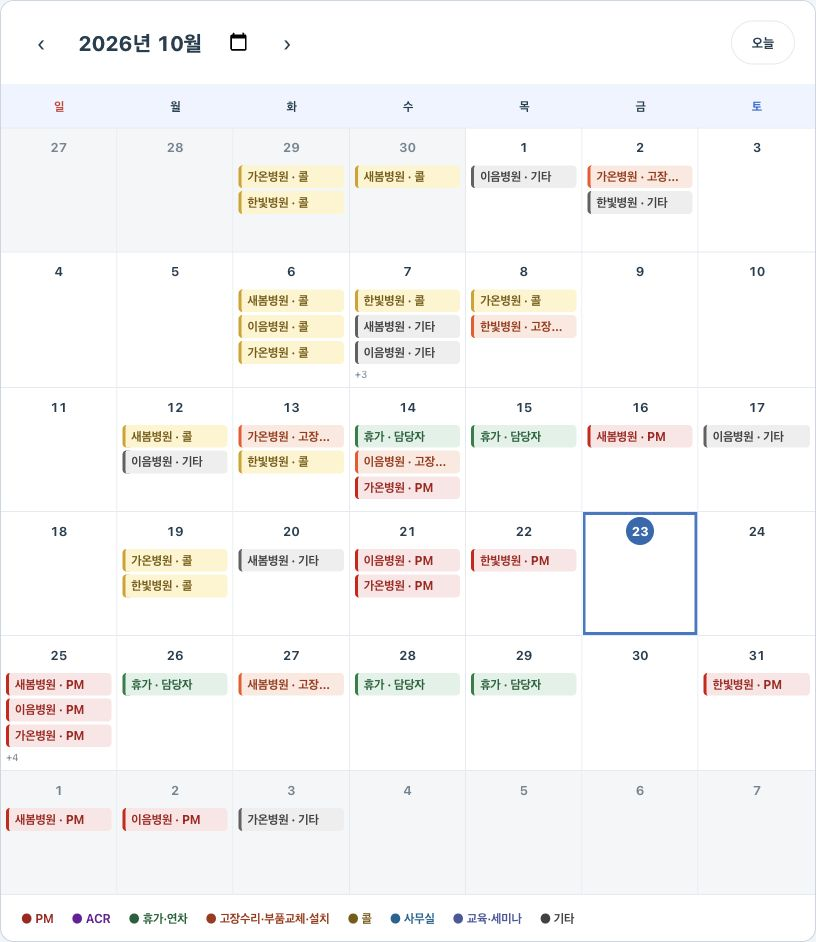
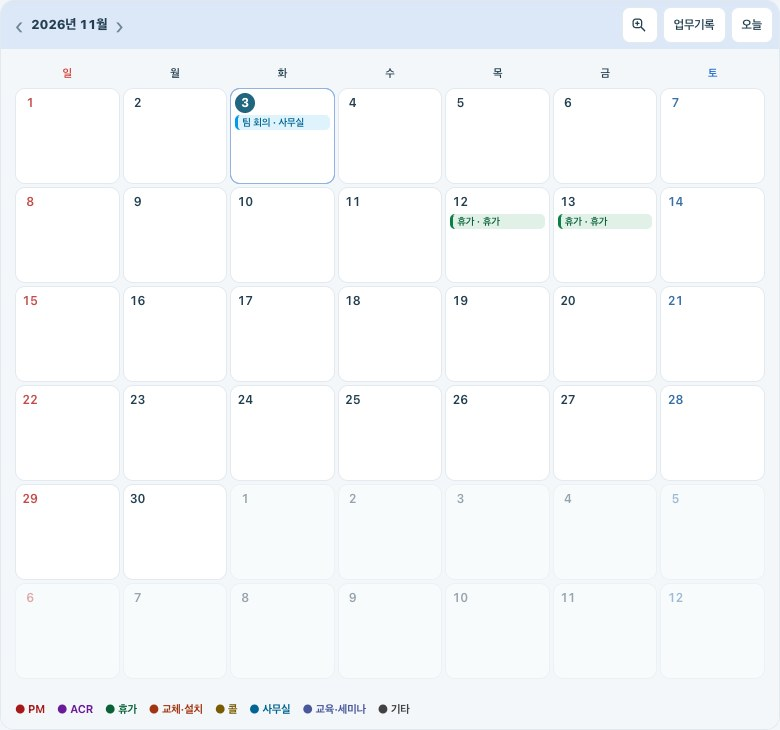
Refresh service overview and align meeting search with hospital directory

diff --git a/frontend/src/app/about/page.tsx b/frontend/src/app/about/page.tsx
@@ -26,18 +26,20 @@ const features = [
   [
     "04",
     "점검 관리",
-    "병원별 점검 주기와 지정일을 관리하고, 다가오는 점검 기한을 확인하세요.",
+    "다가오는 점검과 방문 전 확인사항을 함께 살피고, 점검 예정일을 달력에서 조정하세요.",
   ],
   [
     "05",
     "팀 일정",
-    "방문과 점검, 휴가 일정을 업무기록과 함께 달력에서 확인하세요.",
+    "간단한 일정은 메모로, 자세한 현장 내용은 업무기록으로 남기고 달력에서 함께 확인하세요.",
   ],
   [
     "06",
     "구글캘린더 연동",
-    "원하는 계정에 업무 일정을 반영해, 평소 사용하는 캘린더에서도 확인하세요.",
+    "업무기록·일정·점검 기한을 전용 캘린더에 반영하고, 설정에서 연동 상태를 확인하세요.",
   ],
+  ["07", "병원 정비이력", "측정값과 정비이력, 병원 정보를 탭으로 나누어 확인하고 이전 작업을 다음 방문에 활용하세요."],
+  ["08", "회의록", "지난주 진행 내용과 주요 이슈, 다음 업무를 정리하고 제목·내용·작성자로 회의록을 찾아보세요."],
 ];
 export default function AboutPage() {
   return (
@@ -134,24 +136,23 @@ export default function AboutPage() {
             </h2>
             <p>
               작성된 업무기록, 등록한 일정과 점검 기한을 달력에서 함께
-              확인하세요. 날짜를 선택하면 그날의 업무를 살펴보고 바로 기록할 수
-              있습니다.
+              확인하세요. 좌우로 밀어 달을 이동하고, 날짜를 선택해 그날의 기록과 일정을 확인하세요. 간단한 일정은 창 안에서, 자세한 업무기록은 작성 페이지에서 남깁니다.
             </p>
             <ul>
               <li>업무 유형별 색상으로 구분하는 달력</li>
-              <li>날짜별 업무기록과 일정 확인</li>
-              <li>선택해서 사용하는 구글캘린더 연동</li>
+              <li>메모로 남기는 일정과 기간을 지정하는 휴가</li>
+              <li>다가오는 점검과 방문 전 확인사항을 함께 관리</li>
             </ul>
           </div>
           <figure className="service-calendar-shot">
             <Image
               src="/images/about/calendar.jpg"
               alt="MReyes 업무 달력 실제 화면: 업무기록, PM과 휴가 일정을 유형별 색상으로 구분한 모습. 일정은 예시입니다."
-              width={816}
-              height={942}
+              width={780}
+              height={730}
               sizes="(max-width: 767px) 92vw, 580px"
             />
-            <figcaption>업무 달력 · 예시 일정</figcaption>
+            <figcaption>업무 현황 · 좌우로 이동하는 달력과 예시 일정</figcaption>
           </figure>
         </section>
         <section className="service-band">
@@ -165,12 +166,12 @@ export default function AboutPage() {
               </h2>
               <p>
                 병원을 검색하고 장비 정보와 주소를 확인하세요. 병원 상세에서는
-                측정값, 장비·부품과 정비이력을 이어서 살펴볼 수 있습니다.
+                측정값 · 정비이력 · 병원 정보·관리의 세 탭에서 필요한 정보를 바로 찾아볼 수 있습니다.
               </p>
               <ul>
                 <li>병원명·장비·주소로 빠르게 검색</li>
-                <li>병원별 업무기록과 정비이력 관리</li>
-                <li>작은 화면에서도 사용할 수 있는 구성</li>
+                <li>업무기록·장비·부품 이력을 모은 정비이력 탭</li>
+                <li>측정값 자동 갱신과 아래로 당겨 새로고침</li>
               </ul>
             </div>
             <figure className="service-phone-shot">

diff --git a/frontend/src/components/workspace/meetings-page.tsx b/frontend/src/components/workspace/meetings-page.tsx
@@ -30,8 +30,7 @@ export default function MeetingsPage() {
     catch(e){setError(errorText(e));}
   }
   return <main className="work-page meetings-page">
-    <header className="work-heading"><div><h1>회의록</h1></div><button type="button" className="work-secondary hospital-register" aria-label="회의록 작성" onClick={()=>setEditing("new")}>＋ 작성</button></header>
-    <label className="meeting-search">회의록 검색<input type="search" className="work-input" placeholder="제목·내용·작성자 검색" value={search} onChange={event=>setSearch(event.target.value)} /></label>
+    <header className="work-heading meeting-directory-heading"><div><h1>회의록</h1></div><input type="search" className="work-input work-search" aria-label="회의록 검색" placeholder="제목 · 내용 · 작성자 검색" value={search} onChange={event=>setSearch(event.target.value)} /><button type="button" className="work-secondary hospital-register" aria-label="회의록 작성" onClick={()=>setEditing("new")}>＋ 작성</button></header>
     {error&&<p role="alert" className="work-error">{error}</p>}
     {query.isPending?<PageLoader />:query.error?<div className="work-panel"><p className="work-error">{errorText(query.error)}</p><button className="work-secondary" onClick={()=>void query.refetch()}>다시 시도</button></div>:<div className="meeting-list">
       {filtered.map(row=><button type="button" className="meeting-card" key={row.id} onClick={()=>{setSelected(row.id);setError("");}} aria-haspopup="dialog">

diff --git a/frontend/src/app/globals.css b/frontend/src/app/globals.css
@@ -3243,7 +3243,14 @@ body:has(.service-about) .policy-links a[aria-current=page] { color: #182b3c; }
 .schedule-date-fields > label { display: grid; gap: 6px; }
 
 /* Company meeting minutes: reuse the intranet weekly date/content hierarchy. */
-.meeting-search { display: grid; gap: 6px; margin: 14px 0; font-size: .8125rem; font-weight: 650; }
+.meeting-directory-heading { align-items: center; gap: 12px; margin-bottom: 10px; }
+.meeting-directory-heading > div { flex: 1; }
+.meeting-directory-heading > .work-search { flex: 1; min-width: 0; max-width: 420px; width: 100%; margin: 0; min-height: 40px; padding: 9px 12px; font-size: .8125rem; }
+@media (max-width: 767px) {
+ .meeting-directory-heading { flex-direction: row; flex-wrap: wrap; gap: 8px; }
+ .meeting-directory-heading > div { flex-basis: 100%; }
+ .meeting-directory-heading > .work-search { max-width: none; }
+}
 .meeting-list { display: grid; gap: 10px; }
 .meeting-card { display: flex; align-items: stretch; gap: 18px; width: 100%; min-width: 0; padding: 18px; border: 1px solid var(--work-line); border-radius: 12px; background: var(--work-paper); color: var(--work-ink); text-align: left; }
 .meeting-card-main { min-width: 0; flex: 1; }
